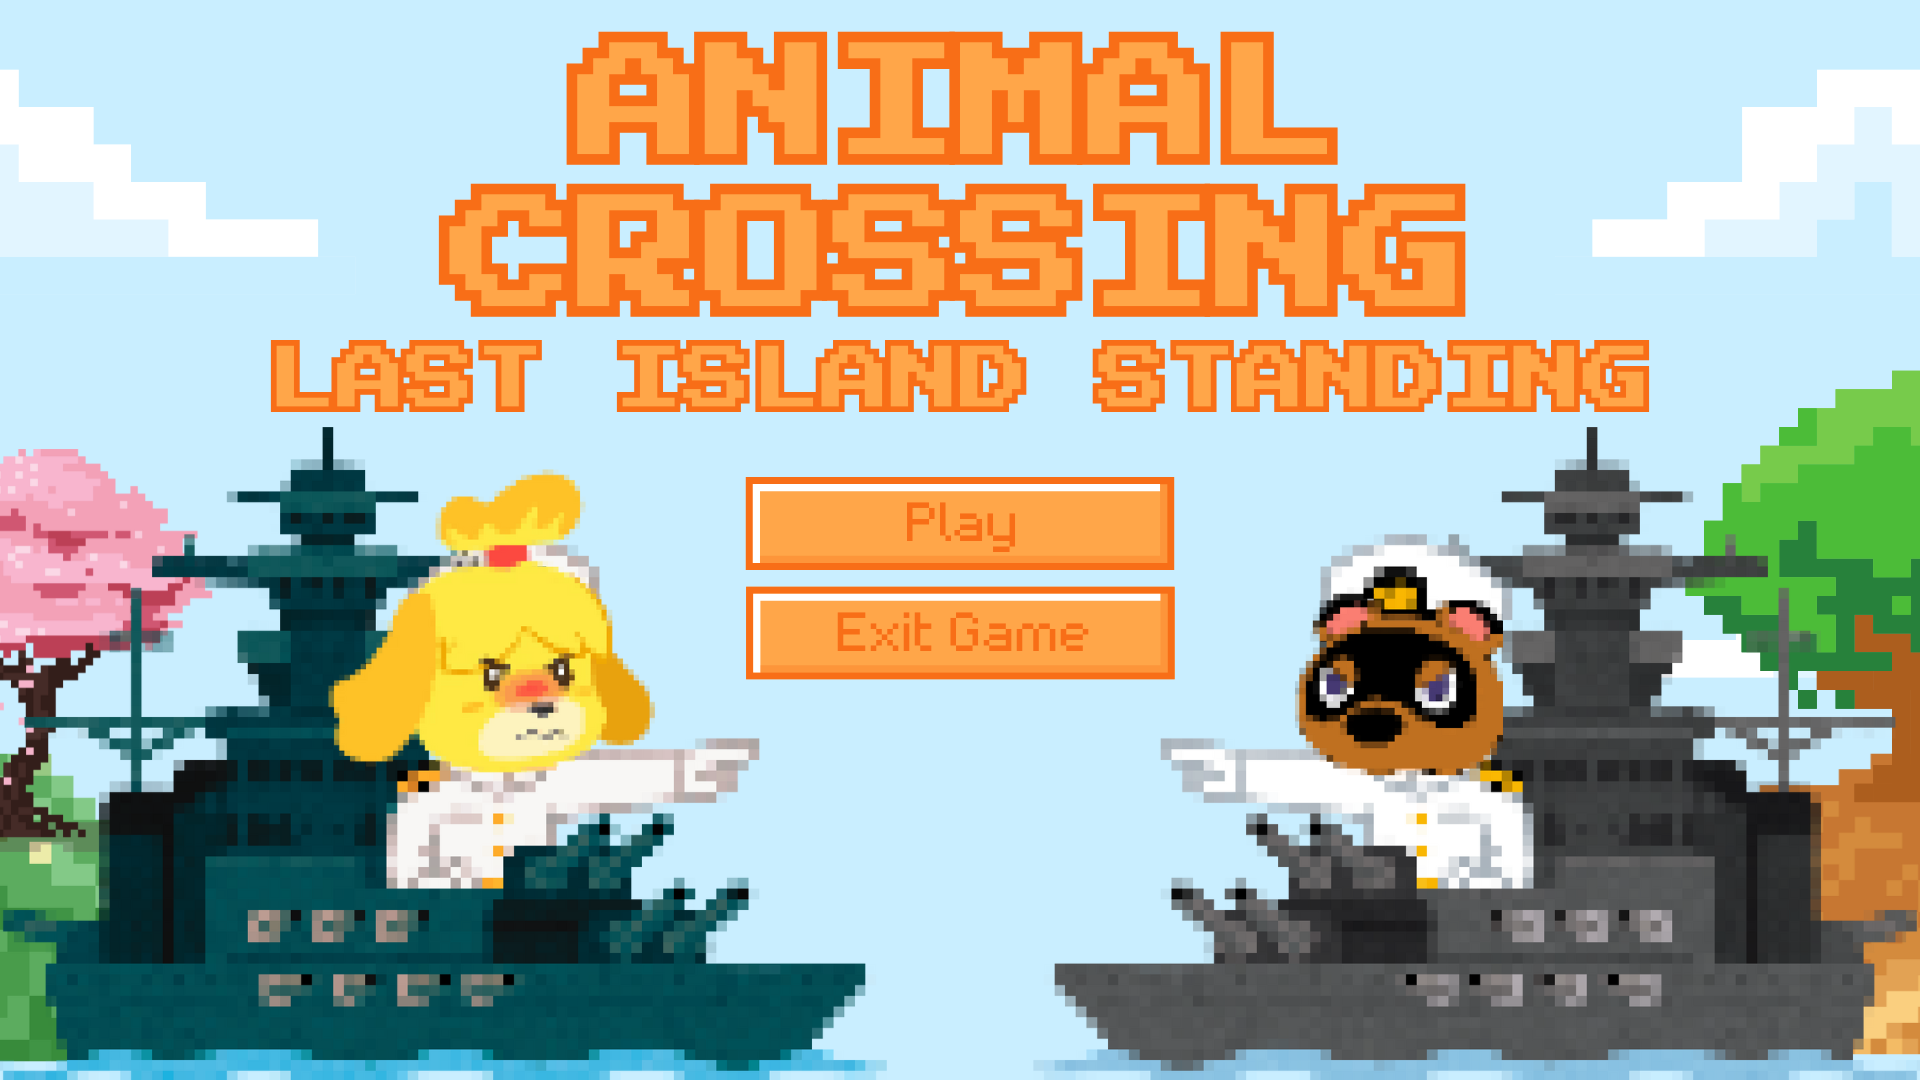
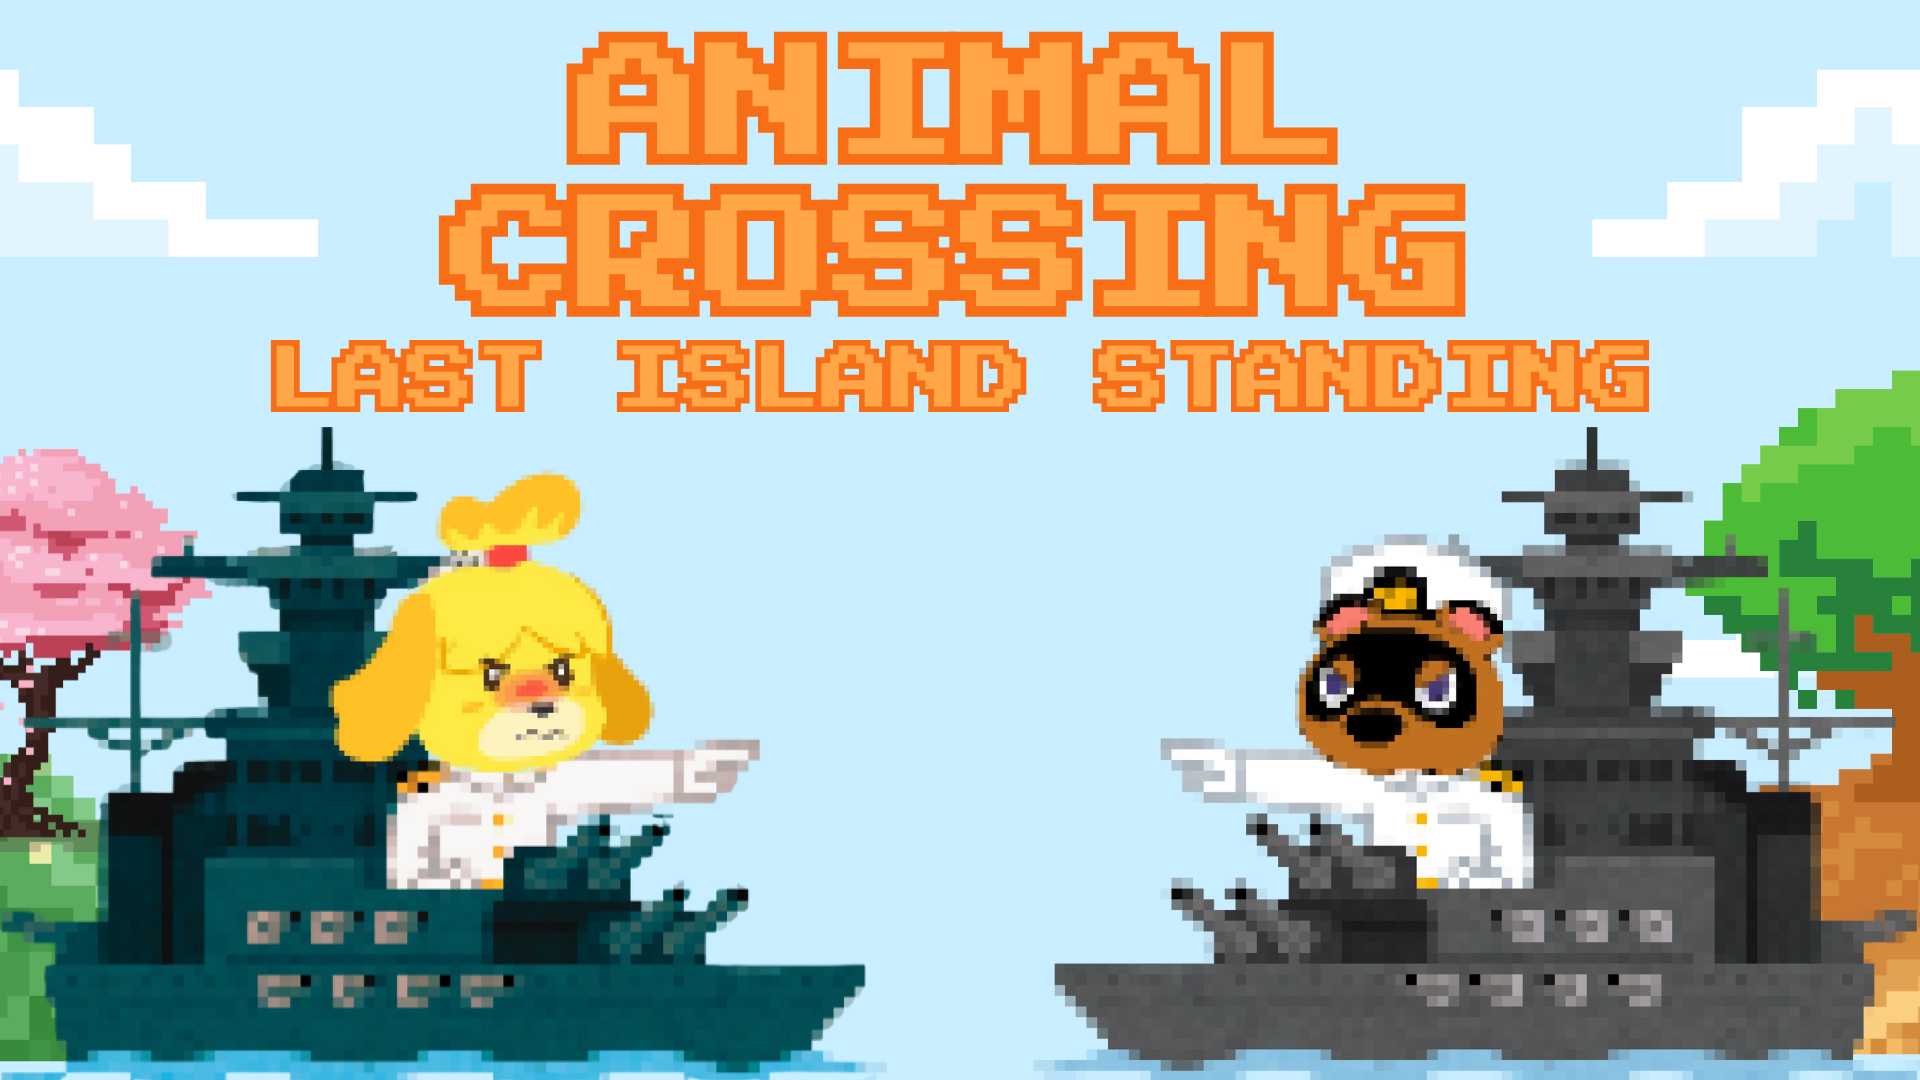
Update GUI
Faction Selection

diff --git a/src/main/java/edu/gonzaga/BattleShipGame/GUI.java b/src/main/java/edu/gonzaga/BattleShipGame/GUI.java
@@ -102,6 +102,32 @@ public class GUI {
         buttonPanel.add(playButton);
         buttonPanel.add(Box.createVerticalStrut(12)); // Add spacing between buttons
 
+        // Add "Story" button
+        JButton storyButton = new JButton("Story");
+        storyButton.setFont(buttonFont); // Set larger font
+        storyButton.setPreferredSize(buttonSize); // Set fixed size
+        storyButton.setMaximumSize(buttonSize); // Ensure consistent size
+        storyButton.setAlignmentX(JButton.CENTER_ALIGNMENT); // Center the button horizontally
+        storyButton.setBackground(new java.awt.Color(255, 165, 0)); // Set orange background
+        storyButton.setForeground(Color.RED); // Set white text color
+        storyButton.setFocusPainted(false); // Remove focus border
+        storyButton.addActionListener(e -> {
+            // Create a JLabel with custom font for the instructions
+            JLabel storyLabel = new JLabel(
+                "<html>Story:<br>" +
+                "1. Each player places ships on their board.<br>" +
+                "2. Players take turns firing at enemy coordinates.<br>" +
+                "3. The first to sink all enemy ships wins.<br>" +
+                "- Ship sizes range from 2-5.<br>" +
+                "- Set each ship's orientation as horizontal or vertical.<br>" +
+                "- Use coordinates like A0, B4 to place and attack.</html>"
+            );
+            storyLabel.setFont(new Font("Arial", Font.BOLD, 16)); // Set custom font and size
+            JOptionPane.showMessageDialog(frame, storyLabel, "Instructions", JOptionPane.INFORMATION_MESSAGE);
+        });
+        buttonPanel.add(storyButton);
+        buttonPanel.add(Box.createVerticalStrut(12)); // Add spacing between buttons
+
         // Add "Instructions" button
         JButton instructionsButton = new JButton("Instructions");
         instructionsButton.setFont(buttonFont); // Set larger font
@@ -177,7 +203,7 @@ public class GUI {
         frame.setLayout(null);
 
         // Upload PNG image
-        ImageIcon orginalIcon = new ImageIcon(GUI.class.getResource("/2.PNG"));
+        ImageIcon orginalIcon = new ImageIcon(GUI.class.getResource("/1.PNG"));
         Image scaledImage = orginalIcon.getImage().getScaledInstance(
             frame.getWidth(),frame.getHeight(),Image.SCALE_SMOOTH
         );
@@ -268,7 +294,7 @@ public class GUI {
         frame.setLayout(new BorderLayout());
 
         // Upload PNG image
-        ImageIcon originalIcon = new ImageIcon(GUI.class.getResource("/3.PNG"));
+        ImageIcon originalIcon = new ImageIcon(GUI.class.getResource("/1.PNG"));
         Image scaledImage = originalIcon.getImage().getScaledInstance(
             frame.getWidth(), frame.getHeight(), Image.SCALE_SMOOTH
         );
@@ -283,7 +309,7 @@ public class GUI {
         JPanel contentPanel = new JPanel();
         contentPanel.setOpaque(false);
         contentPanel.setLayout(new BoxLayout(contentPanel, BoxLayout.Y_AXIS));
-        contentPanel.setBorder(BorderFactory.createEmptyBorder(13, 0, 0, 20)); // Adjust padding to move buttons higher
+        contentPanel.setBorder(BorderFactory.createEmptyBorder(200, 0, 0, 20)); // Adjust padding to move buttons higher
 
         // Title label
         JLabel titleLabel = new JLabel("Player 1 - Choose Your Island");
@@ -301,7 +327,7 @@ public class GUI {
 
         // Create button with previous style
         Font buttonFont = new Font("Arial", Font.BOLD, 18); // Previous font size
-        Dimension buttonSize = new Dimension(260, 73); // Previous button size
+        Dimension buttonSize = new Dimension(200, 60 ); // Previous button size
 
         // Faction buttons with previous size and spacing
         JButton isabelleButton = createFactionButton(
@@ -402,7 +428,7 @@ public class GUI {
             frame.setLayout(new BorderLayout());
     
             // Upload PNG image
-            ImageIcon orginalIcon = new ImageIcon(GUI.class.getResource("/3.PNG"));
+            ImageIcon orginalIcon = new ImageIcon(GUI.class.getResource("/1.PNG"));
             Image scaledImage = orginalIcon.getImage().getScaledInstance(
                 frame.getWidth(),frame.getHeight(),Image.SCALE_SMOOTH
             );
